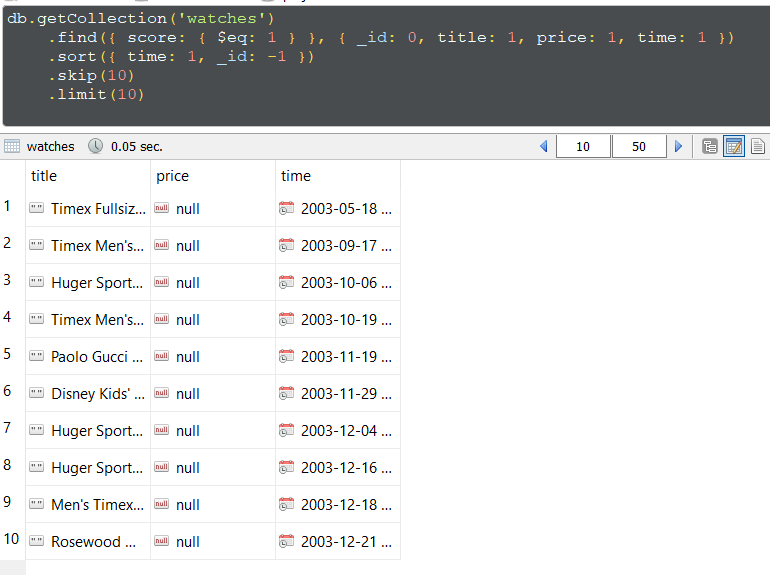
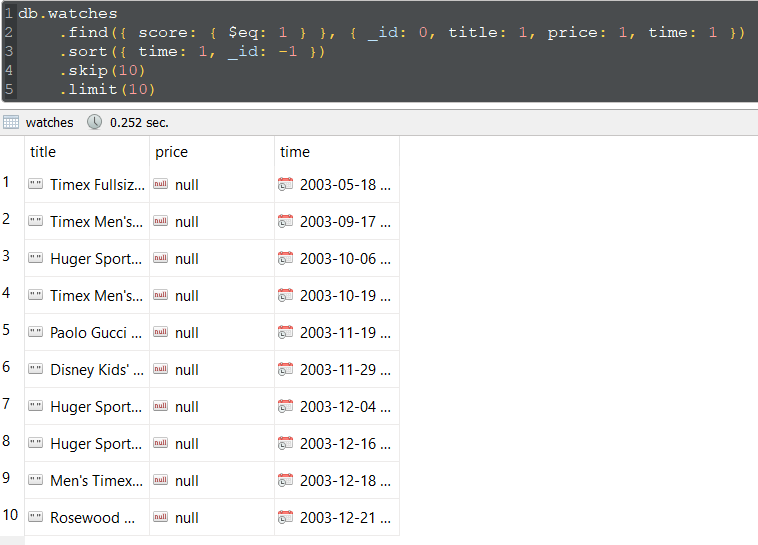
7 zad

diff --git a/project-03/07/edgar.js b/project-03/07/edgar.js
@@ -1,0 +1,39 @@
+// Trajanje upita: 0.298 + 0.074 = 0.362 sekunda
+
+let mostNumberOfReviews = db.products.aggregate([
+    { $addFields: { reviewCount: { $size: "$reviews" } } },
+    { $sort: { reviewCount: -1 } },
+    { $limit: 10 }
+]);
+    
+let leastNumberOfReviews = db.products.aggregate([
+    { $addFields: { reviewCount: { $size: "$reviews" } } },
+    { $sort: { reviewCount: 1 } },
+    { $limit: 10 }
+]);
+    
+/*
+Najvise recenzija:
+    - B0006AAS4M
+    - B000EQS1JW
+    - B000GAYQKY
+    - B00093CZV0
+    - B000JQFX1G
+    - B000CK4FGI
+    - B000HDJT6Q
+    - B0006IEX04
+    - B0006AAS7E
+    - B000JQJS6M
+
+Najmanje recenzija:
+    - B0002KJZOK
+    - B000E8J5UY
+    - B000KZVFFO
+    - B0009NWPTW
+    - B0000A1XSN
+    - B0006J9Q64
+    - B0002CU718
+    - B000MVUV4W
+    - B000671K38
+    - B000PYCSA6
+*/

diff --git a/project-03/04/edgar.js b/project-03/04/edgar.js
@@ -1,6 +1,6 @@
-Trajanje upita: 0.05 sekunda
+// Trajanje upita: 0.252 sekunda
 
-db.getCollection('watches')
+db.watches
     .find({ score: { $eq: 1 } }, { _id: 0, title: 1, price: 1, time: 1 })
     .sort({ time: 1, _id: -1 })
     .skip(10)

diff --git a/project-03/03/edgar.js b/project-03/03/edgar.js
@@ -1,0 +1,3 @@
+// Trajanje upita: 0.131 sekunda
+
+db.watches.find({ price: { $eq: null } }).count()

diff --git a/project-03/02/edgar.js b/project-03/02/edgar.js
@@ -1,0 +1,3 @@
+// Trajanje upita: 0.136 sekunda
+
+db.watches.distinct("score")
